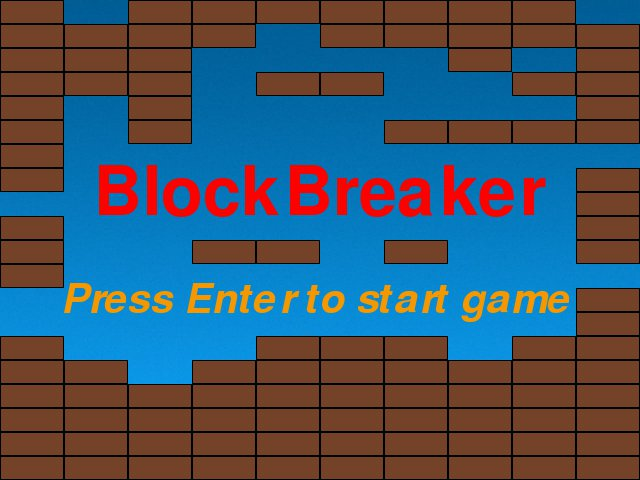
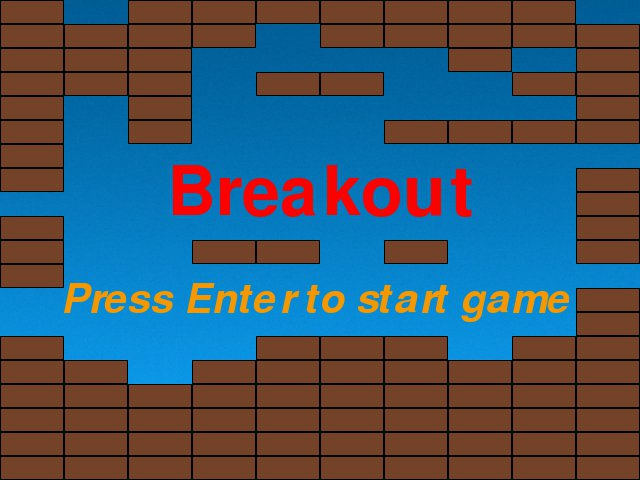
first commit

Changed region(s): [[0.125, 0.3438, 0.875, 0.4688]]

diff --git a/Breakout.py b/Breakout.py
@@ -17,7 +17,7 @@ Y = 480 #画面のy座標の大きさ
 
 pygame.init() #pygameの初期化
 pygame.mixer.init()
-pygame.display.set_caption("BlockBreaker")
+pygame.display.set_caption("Breakout")
 screen = pygame.display.set_mode((X, Y))
 clock = pygame.time.Clock()
 
@@ -261,10 +261,10 @@ class Show():
         
         
 class Write():
-    def blockbreaker(self):
-        blockbreaker_font = pygame.font.SysFont(None, 100)
-        blockbreaker = blockbreaker_font.render("BlockBreaker", True, RED)
-        screen.blit(blockbreaker, ((X-blockbreaker.get_width())/2, 160))
+    def breakout(self):
+        breakout_font = pygame.font.SysFont(None, 100)
+        breakout = breakout_font.render("Breakout", True, RED)
+        screen.blit(breakout, ((X-breakout.get_width())/2, 160))
         
     def pressenter(self):
         pressenter_font = pygame.font.SysFont(None, 60, italic=True)
@@ -316,10 +316,10 @@ while playing:
                 continue_screen = False
 
         show.background()
-        write.blockbreaker()
+        write.breakout()
         show.start()
         show.brick()
-    
+
         pygame.display.flip() #画面の更新
         clock.tick(50)
 
